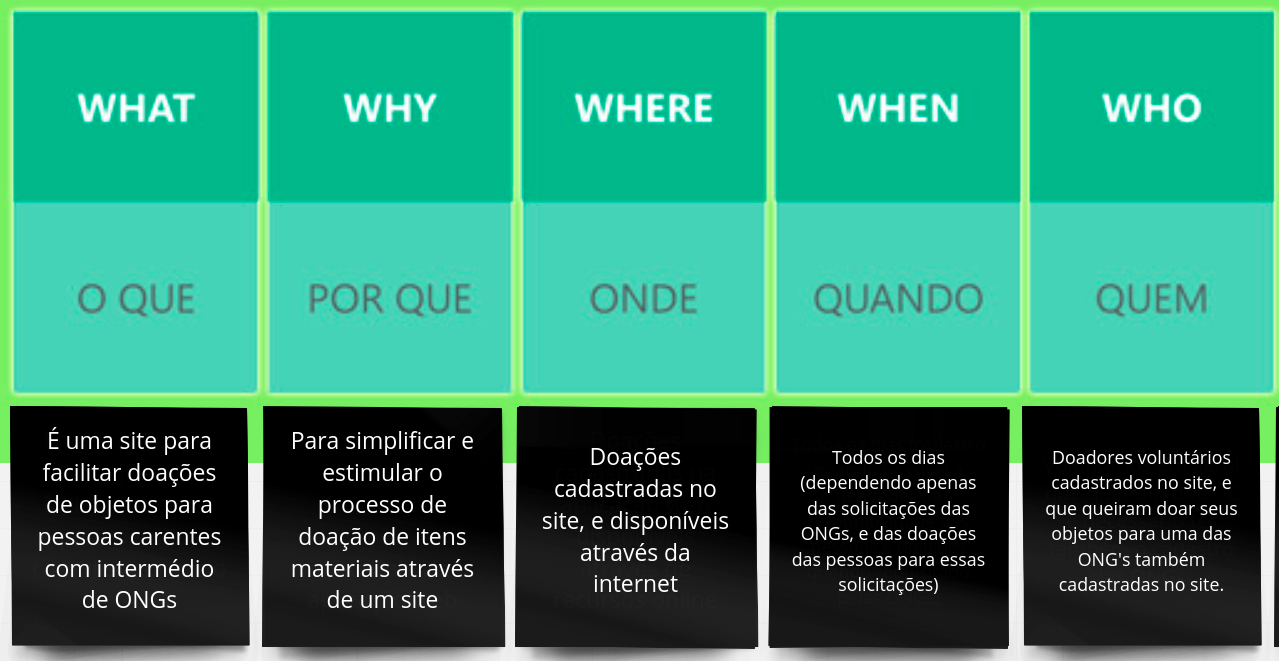
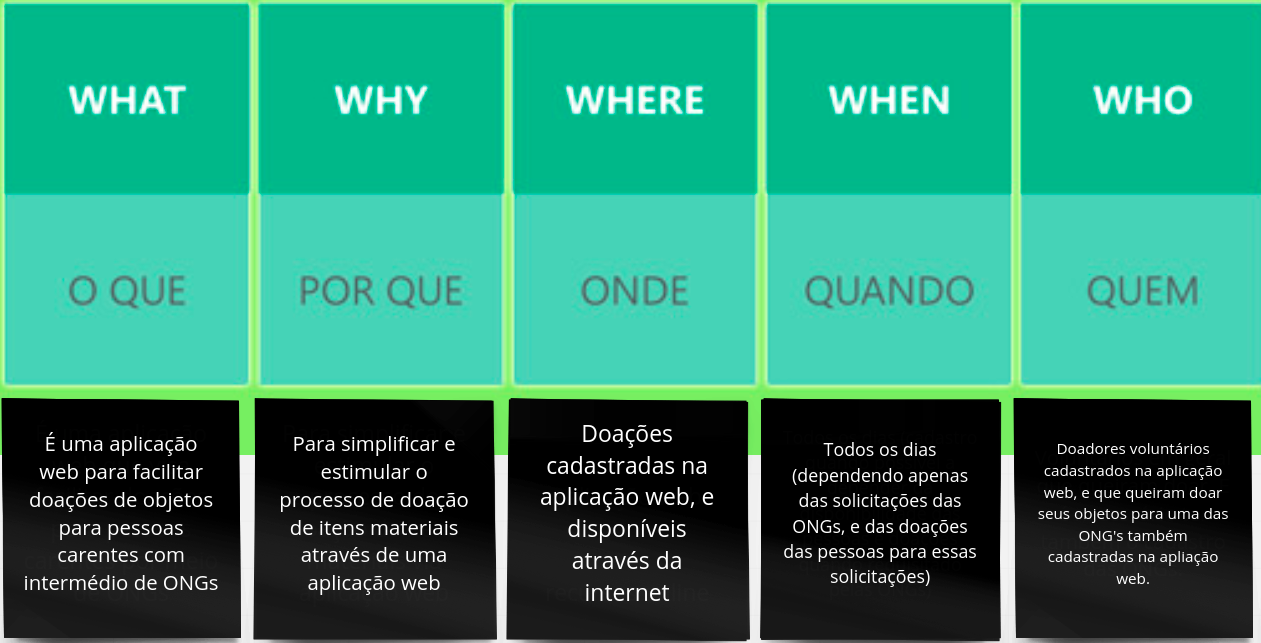
Alterações no 5W2H após validação com o Yan

Changed region(s): [[0.0, 0.0, 1.0, 1.0], [0.866, 0.1244, 0.9588, 0.1866], [0.2474, 0.1244, 0.3402, 0.1866]]

diff --git a/docs/Modelagem/2.2.IniciativasExtras.md b/docs/Modelagem/2.2.IniciativasExtras.md
@@ -11,6 +11,7 @@
 | 0.5    | Ajustes na sidebar com os tópicos                                     | Victor Buendia  | 08/07/2022 |
 | 0.6    | Validação do protótipo                                                | Isadora Soares  | 08/07/2022 |
 | 0.7    | Roadmap                                                               | Cibele Goudinho  | 12/07/2022 |
+| 0.8    | Mudanças no 5W2H após validação com o Yan Andrade  | Victor Eduardo  | 14/07/2022 |
 
 ## 2.2.1 Tecnologias a serem usadas
 
@@ -59,8 +60,8 @@ _Imagem 5: Arquitetura simplificada do sistema_
 
 ## 2.2.2 5W2H em Alto Nível
 
-O [5W2H anteriomente feito](https://unbarqdsw2022-1.github.io/2022.1_G2_DonAct/#/Base/1.1.AbordagemNaoEspecifica?id=_5w2h-vis%c3%a3o-geral) possuía uma linguagem mais baixo nível, ou seja, uma linguagem mais técnica, e que exigia um conhecimento sobre desenvolvimento, já o 5W2H apresentado logo abaixo, tem uma linguagem alto nível, ou seja, uma linguagem na qual usuários que não fazem parte do meio de desenvolvimento de software, possam entender perfeitamente.
-[![5W2H em Alto Nível](../imgs/5H2W_Alto_Nivel.png)](/Modelagem/2.2.IniciativasExtras?id=_5w2h-5w39s)
+O [5W2H anteriomente feito](https://unbarqdsw2022-1.github.io/2022.1_G2_DonAct/#/Base/1.1.AbordagemNaoEspecifica?id=_5w2h-vis%c3%a3o-geral) possuía uma linguagem mais baixo nível, ou seja, uma linguagem mais técnica, e que exigia um maior conhecimento sobre desenvolvimento, já esse 5W2H apresentado logo abaixo, tem uma linguagem alto nível, ou seja, uma linguagem a qual se exigirá menor conhecimento técnico sobre desenvolvimento para que se possa entender perfeitamente.
+[![5W2H em Alto Nível](../imgs/5H2W_Alto_Nivel.jpg)](/Modelagem/2.2.IniciativasExtras?id=_5w2h-5w39s)
 _Imagem 6: 5W2H - Alto Nível_
 _Detalhes no apêndice_
 
